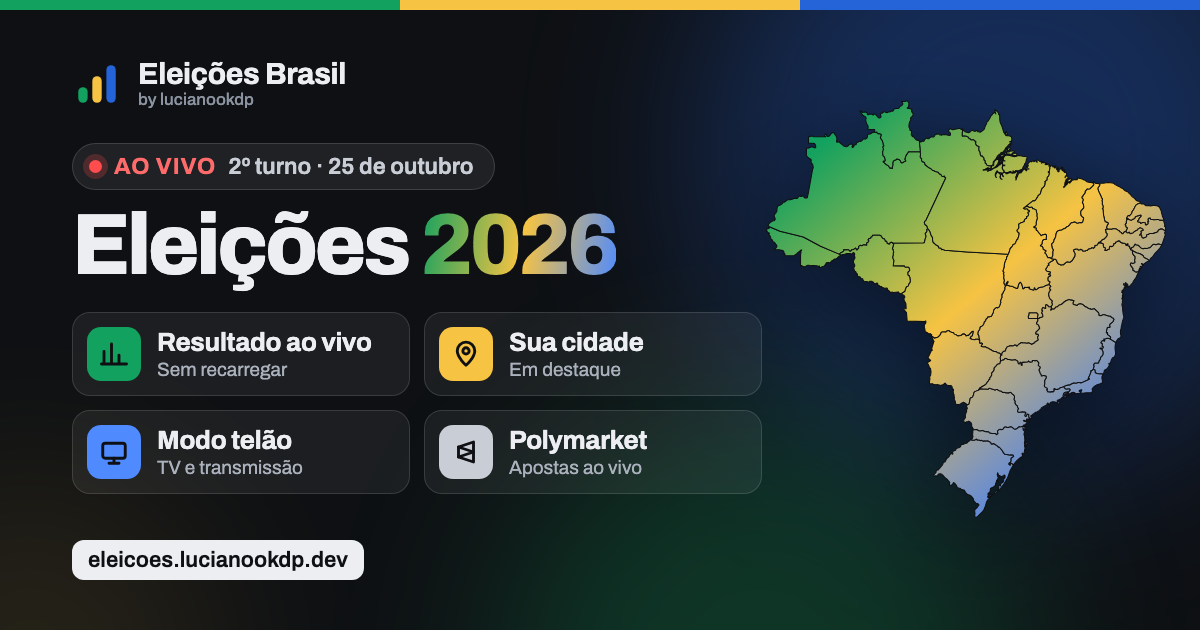
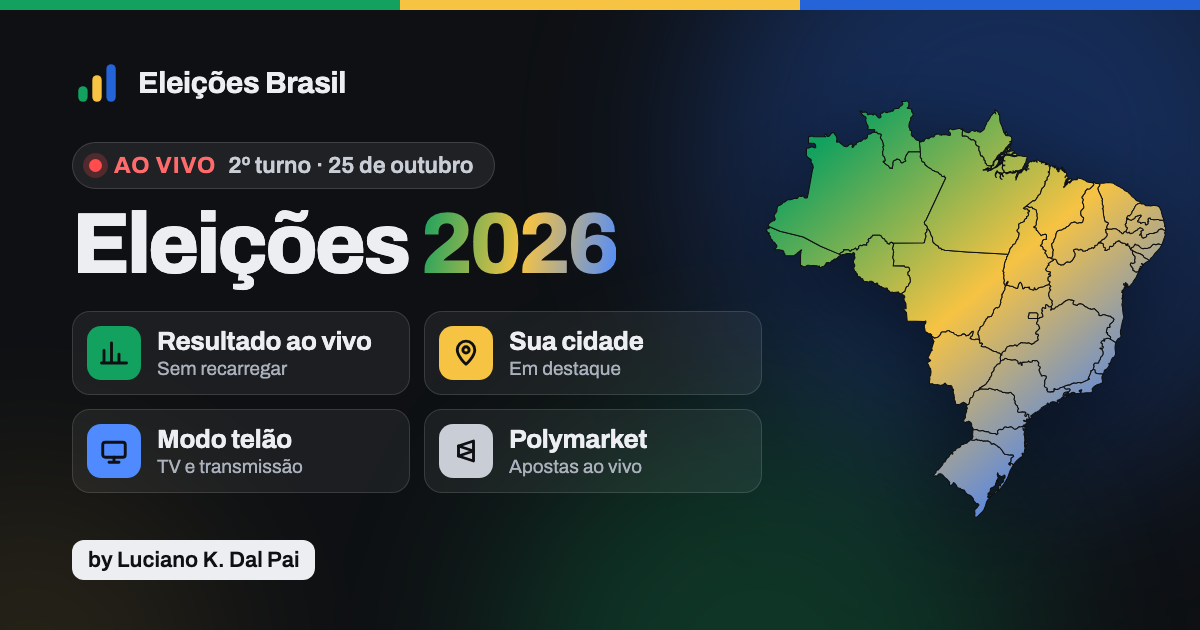
v3.4.4: telão enxuto, crédito do autor e imagem do link (#25)
* v3.4.4: a leaner TV mode; the link preview signed by Luciano K. Dal Pai

The TV mode keeps only what someone watching the count asks for: who leads
where, where there is most left to count, the governor and senate races and
turnout. "Apuração por estado" (repeated "Falta apurar") and "Últimas
atualizações" (a log, noise on a TV) are gone; each option now says in one
line what it shows. The link preview drops "by lucianookdp" under the name
and shows "by Luciano K. Dal Pai" in place of the address.

* The author's credit at the end of every page, one link to his site

A "Desenvolvido por" card with the lucianookdp wordmark closes every page,
apart from the data (the page is at least a screen tall). The whole card opens
lucianookdp.dev. "Mais" ends with the same credit, and the TV mode's footer
shows the address people can type: "Feito por Luciano K. Dal Pai ·
lucianookdp.dev".

* The credit: the author's name small under the wordmark, and an invitation to see more

* TV mode: only the author's wordmark in the corner, no credit line

* The credit card: what the author does fills its middle on big screens

* The credit card's button stands out: a green "Visitar site" pill

---------

diff --git a/apps/web/components/shell.tsx b/apps/web/components/shell.tsx
@@ -104,10 +104,7 @@ export function ElectionShell({
         <Header onSearch={() => setSearchOpen(true)} />
         {/* At least one screen tall: while the data loads the page is a short skeleton, and a footer
             in view would jump away when the content arrives (the biggest layout shift there was). */}
-        <main
-          id="conteudo"
-          className="mx-auto min-h-dvh w-full max-w-[1320px] px-4 pb-28 pt-5 sm:px-6 xl:pb-12"
-        >
+        <main id="conteudo" className="mx-auto min-h-dvh w-full max-w-[1320px] px-4 pb-6 pt-5 sm:px-6">
           <GlobalFreshness />
           {children}
         </main>
@@ -333,9 +330,29 @@ function MoreContent({
             ))}
             {/* Sharing the site closes the last group. */}
             {gi === groups.length - 1 && (
-              <li>
-                <ShareSiteItem />
-              </li>
+              <>
+                <li>
+                  <ShareSiteItem />
+                </li>
+                <li>
+                  <a href={AUTHOR} target="_blank" rel="noopener" className={row}>
+                    <span className="flex size-9 shrink-0 items-center justify-center rounded-lg bg-surface-2">
+                      <AuthorMark />
+                    </span>
+                    <span className="min-w-0 flex-1">
+                      <span className="block truncate text-[15px] font-medium leading-tight">
+                        Desenvolvido por <AuthorLogo className="text-[15px] font-semibold" />
+                      </span>
+                      <span className="block truncate text-[12.5px] text-muted">
+                        Veja mais sobre o meu trabalho
+                      </span>
+                    </span>
+                    <span aria-hidden className="shrink-0 text-[15px] text-muted">
+                      ↗
+                    </span>
+                  </a>
+                </li>
+              </>
             )}
           </ul>
         </section>
@@ -413,7 +430,7 @@ function Brand({ to }: { to: string }) {
           Eleições Brasil
         </Link>
         <a
-          href="https://lucianookdp.dev"
+          href={AUTHOR}
           target="_blank"
           rel="noopener"
           className="mt-[3px] flex items-center gap-[3px] whitespace-nowrap text-[9.5px] text-muted hover:text-ink"
@@ -875,7 +892,71 @@ function Footer() {
   return <SiteFooter version={meta?.app.version} />;
 }
 
-/** Quiet footer: the source and the two help pages; the author's credit as one small line. */
+const AUTHOR = 'https://lucianookdp.dev';
+/** As on lucianookdp.dev (Serviços). */
+const SERVICES = ['Landing pages', 'Sites institucionais', 'Sistemas web', 'Soluções sob medida'];
+
+/**
+ * The studio credit, as agencies sign the sites they make: "Desenvolvido por" and the author's
+ * wordmark, the whole card one link to his site. At the very end of every page (the page is at
+ * least a screen tall), apart from the data, so it never gets in the way of the results.
+ */
+function AuthorCard() {
+  return (
+    <a
+      href={AUTHOR}
+      target="_blank"
+      rel="noopener"
+      aria-label="Desenvolvido por lucianookdp, Luciano K. Dal Pai: veja mais sobre o meu trabalho (abre lucianookdp.dev)"
+      className="group flex items-center gap-4 rounded-2xl border border-line bg-surface px-5 py-4 transition-colors hover:border-line-strong sm:px-6 sm:py-5"
+    >
+      <span className="min-w-0 flex-1 lg:flex-none">
+        <span className="block text-[11px] font-medium uppercase tracking-[0.14em] text-muted">
+          Desenvolvido por
+        </span>
+        <AuthorLogo className="mt-1.5 text-[28px] font-semibold text-ink sm:text-[32px]" />
+        <span className="mt-0.5 block text-[11.5px] text-muted">Luciano K. Dal Pai</span>
+        <span className="mt-2 block text-[13.5px] font-medium text-ink-2 transition-colors group-hover:text-ink">
+          Veja mais sobre o meu trabalho
+        </span>
+      </span>
+      {/* Big screens: what he does fills the middle (a phone keeps the card short). */}
+      <span className="mx-4 hidden min-w-0 flex-1 self-stretch border-l border-line pl-8 lg:flex lg:flex-col lg:justify-center">
+        <span className="text-[11px] font-medium uppercase tracking-[0.14em] text-muted">O que eu faço</span>
+        <span className="mt-2.5 flex flex-wrap gap-2">
+          {SERVICES.map((s) => (
+            <span
+              key={s}
+              className="rounded-full border border-line bg-surface-2/50 px-3 py-1 text-[13px] text-ink-2"
+            >
+              {s}
+            </span>
+          ))}
+        </span>
+      </span>
+      {/* The one thing to press, in the site's green: a round arrow on phones, a pill on computers. */}
+      <span className="flex h-11 min-w-11 shrink-0 items-center justify-center gap-2 rounded-full bg-live text-[14.5px] font-semibold text-ground shadow-md shadow-black/20 transition group-hover:brightness-110 md:px-5">
+        <span className="hidden md:inline">Visitar site</span>
+        <svg
+          aria-hidden
+          viewBox="0 0 24 24"
+          width={18}
+          height={18}
+          fill="none"
+          stroke="currentColor"
+          strokeWidth={2.2}
+          strokeLinecap="round"
+          strokeLinejoin="round"
+          className="transition-transform group-hover:-translate-y-0.5 group-hover:translate-x-0.5"
+        >
+          <path d="M7 17 17 7M8 7h9v9" />
+        </svg>
+      </span>
+    </a>
+  );
+}
+
+/** Quiet footer: who made the site (AuthorCard), then the source and the help page. */
 function SiteFooter({ version }: { version?: string }) {
   const links = (
     <>
@@ -885,8 +966,11 @@ function SiteFooter({ version }: { version?: string }) {
     </>
   );
   return (
-    <footer className="mt-6 border-t border-line pb-24 xl:pb-0">
-      <div className="mx-auto flex max-w-[1320px] flex-col gap-3 px-4 py-4 sm:px-6 md:flex-row md:items-center md:justify-between md:gap-4 md:py-6">
+    <footer className="mt-6 pb-24 xl:pb-0">
+      <div className="mx-auto max-w-[1320px] px-4 sm:px-6">
+        <AuthorCard />
+      </div>
+      <div className="mx-auto mt-6 flex max-w-[1320px] flex-col gap-3 border-t border-line px-4 py-4 sm:px-6 md:flex-row md:items-center md:justify-between md:gap-4 md:py-6">
         <div className="max-w-2xl text-[13px] text-muted">
           {/* Phones: the name at the left, the version at the right, on one line. */}
           <p className="flex items-center justify-between gap-2 font-medium text-ink-2 md:justify-start">
@@ -907,23 +991,6 @@ function SiteFooter({ version }: { version?: string }) {
             Eleitoral. Horários de Brasília. {links}
           </p>
         </div>
-        {/* The author's credit: a button that says what it opens (the author's other projects), on
-            every screen. On phones it takes the whole line, the name at one end and the action at the other. */}
-        <a
-          href="https://lucianookdp.dev"
-          target="_blank"
-          rel="noopener"
-          className="group flex shrink-0 items-center justify-between gap-2 rounded-full border border-line bg-surface py-1.5 pl-3.5 pr-1.5 text-[12px] text-muted transition-colors hover:border-line-strong hover:text-ink md:justify-start md:gap-2.5 md:pl-4 md:text-[13px]"
-        >
-          <span className="flex min-w-0 items-center gap-2 md:gap-2.5">
-            <span className="min-[360px]:hidden">Por</span>
-            <span className="hidden min-[360px]:inline">Desenvolvido por</span>
-            <AuthorLogo className="text-[13.5px] font-medium text-ink md:text-[14.5px]" />
-          </span>
-          <span className="inline-flex shrink-0 items-center gap-1 rounded-full bg-surface-2 px-2.5 py-1 text-[12px] font-medium text-ink-2 transition-colors group-hover:bg-ink group-hover:text-ground md:px-3 md:text-[12.5px]">
-            Ver projetos <span aria-hidden>↗</span>
-          </span>
-        </a>
       </div>
     </footer>
   );
@@ -933,7 +1000,19 @@ function SiteFooter({ version }: { version?: string }) {
  * The author's wordmark, as on lucianookdp.dev: "lucian", an infinity sign for "oo", "kdp". Toned
  * down here: the text takes the surrounding grey and the infinity a softened site green.
  */
-function AuthorLogo({ className }: { className: string }) {
+/** The infinity of the author's wordmark, alone (an icon). */
+function AuthorMark() {
+  return (
+    <svg aria-hidden viewBox="4 4 92 42" width={20} height={10}>
+      <path d={INFINITY} fill="none" stroke="var(--live)" strokeWidth={11} strokeLinecap="round" />
+    </svg>
+  );
+}
+
+const INFINITY =
+  'M 25 10 C 10 10 10 40 25 40 C 35 40 40 30 50 25 C 60 20 65 10 75 10 C 90 10 90 40 75 40 C 65 40 60 30 50 25 C 40 20 35 10 25 10 Z';
+
+export function AuthorLogo({ className }: { className: string }) {
   return (
     <span
       className={`inline-flex items-center tracking-tight ${className}`}
@@ -943,7 +1022,7 @@ function AuthorLogo({ className }: { className: string }) {
       <span aria-hidden>lucian</span>
       <svg aria-hidden viewBox="4 4 92 42" className="mx-[-0.015em] h-[0.62em] w-auto translate-y-[0.02em]">
         <path
-          d="M 25 10 C 10 10 10 40 25 40 C 35 40 40 30 50 25 C 60 20 65 10 75 10 C 90 10 90 40 75 40 C 65 40 60 30 50 25 C 40 20 35 10 25 10 Z"
+          d={INFINITY}
           fill="none"
           stroke="var(--live)"
           strokeOpacity={0.7}

diff --git a/apps/web/components/tv-scenes.tsx b/apps/web/components/tv-scenes.tsx
@@ -4,8 +4,7 @@ import { hasValidVotes, type OverviewDTO, type ResultDTO, type StateRowDTO } fro
 import { type ReactNode, useEffect, useRef, useState } from 'react';
 import { displayName, fmtCompact, fmtPct } from '@/lib/format';
 import { usePolymarket } from '@/lib/polymarket';
-import { useEvents, useOfficeStates } from '@/lib/queries';
-import { ActivityFeed } from './activity';
+import { useOfficeStates } from '@/lib/queries';
 import { BrazilMap } from './brazil-map';
 import { OddsSplit, PriceChart } from './polymarket-chart';
 import { StatusPill } from './results';
@@ -37,18 +36,23 @@ const pagesOf = <T,>(list: T[], size: number) =>
 
 /**
  * Every scene the reader can pick, in this order, and the rounds it belongs to (the 1st round has
- * senators; in the runoff "Governadores" are the states with a governor runoff). Polymarket is not
- * the count: off unless picked.
+ * senators; in the runoff "Governadores" are the states with a governor runoff). Only what someone
+ * watching the count asks: who leads where, where it can still change, their state's races, and
+ * how many voted. Polymarket is not the count: off unless picked.
  */
 export const CATALOG = [
-  { id: 'placar', title: 'Estados', rounds: [1, 2] },
-  { id: 'apuracao', title: 'Apuração por estado', rounds: [1, 2] },
-  { id: 'falta', title: 'Falta apurar', rounds: [1, 2] },
-  { id: 'governadores', title: 'Governadores', rounds: [1, 2] },
-  { id: 'senadores', title: 'Senadores', rounds: [1] },
-  { id: 'comparecimento', title: 'Comparecimento', rounds: [1, 2] },
-  { id: 'atualizacoes', title: 'Últimas atualizações', rounds: [1, 2] },
-  { id: 'polymarket', title: 'Polymarket', rounds: [1, 2], hint: 'apostas, não é resultado oficial' },
+  { id: 'placar', title: 'Estados', rounds: [1, 2], hint: 'Quantos estados cada um lidera' },
+  { id: 'falta', title: 'Falta apurar', rounds: [1, 2], hint: 'Onde ainda há mais votos para contar' },
+  { id: 'governadores', title: 'Governadores', rounds: [1, 2], hint: 'Quem lidera em cada estado' },
+  { id: 'senadores', title: 'Senadores', rounds: [1], hint: 'Quem lidera em cada estado' },
+  { id: 'comparecimento', title: 'Comparecimento', rounds: [1, 2], hint: 'Abstenção, brancos e nulos' },
+  {
+    id: 'polymarket',
+    title: 'Polymarket',
+    rounds: [1, 2],
+    hint: 'Apostas, não é resultado oficial',
+    warn: true,
+  },
 ] as const;
 export type SceneId = (typeof CATALOG)[number]['id'];
 const PICK_KEY = 'eleicoes:telao-cenas';
@@ -120,7 +124,6 @@ export function TvScenes({
   const senator = data.round.offices.find((o) => o.slug === 'senador');
   const governors = useOfficeStates(round.slug, governor?.slug).data;
   const senators = useOfficeStates(round.slug, senator?.slug).data;
-  const events = useEvents(round.slug, 12).data;
   const [index, setIndex] = useState(0);
   const [paused, setPaused] = useState(false);
 
@@ -141,8 +144,6 @@ export function TvScenes({
   };
   // The pages of each scene; none: nothing to show right now (no one left to count, no senate race).
   const bodies: Record<SceneId, ReactNode[]> = {
-    // The most voted only: how far the count went in each state has its own scene.
-    apuracao: states.some((s) => s.progress) ? [<CountByState key="apuracao" states={states} />] : [],
     placar: states.some((s) => s.leader) ? [<Scoreboard key="placar" states={states} />] : [],
     falta: left.length > 0 ? [<Remaining key="falta" rows={left} />] : [],
     governadores: office(round.round === 2 ? 'Governadores no 2º turno' : 'Governadores', governors?.results),
@@ -150,15 +151,6 @@ export function TvScenes({
     comparecimento:
       data.progress?.turnoutPct != null && data.headline ? [<Turnout key="comp" data={data} />] : [],
     polymarket: [],
-    atualizacoes:
-      events && events.length > 0
-        ? [
-            <div key="atualizacoes">
-              <p className={kicker}>Últimas atualizações</p>
-              <ActivityFeed events={events} max={compact ? 6 : 10} />
-            </div>,
-          ]
-        : [],
   };
   // Only asked from Polymarket when picked (it is the reader's browser that asks, never our API).
   bodies.polymarket = chosen.includes('polymarket') ? [<PolymarketScene key="polymarket" />] : [];
@@ -505,31 +497,6 @@ function PolymarketScene() {
           Últimos 7 dias · US$ {fmtCompact(data.volume)} apostados · polymarket.com
         </p>
       )}
-    </div>
-  );
-}
-
-/** How far the count went in each state: every state, its share of ballot boxes counted. */
-function CountByState({ states }: { states: StateRowDTO[] }) {
-  return (
-    <div>
-      <p className={kicker}>Apuração por estado · urnas apuradas</p>
-      <ul className="mt-2 grid grid-cols-3 gap-x-3 gap-y-[clamp(4px,1cqi,8px)] @md:grid-cols-4">
-        {states.map((s) => {
-          const pct = s.progress?.countedPct ?? null;
-          return (
-            <li key={s.uf} className="min-w-0">
-              <span className="flex items-baseline justify-between gap-1">
-                <span className="text-[clamp(11px,2.4cqi,16px)] font-semibold text-ink-2">{s.uf}</span>
-                <span className="numeral text-[clamp(11px,2.4cqi,16px)] font-semibold">{fmtPct(pct, 0)}</span>
-              </span>
-              <span className="mt-0.5 block h-[clamp(4px,0.8cqi,7px)] overflow-hidden rounded-full bg-surface-2">
-                <span className="bar block h-full rounded-full bg-live" style={{ width: `${pct ?? 0}%` }} />
-              </span>
-            </li>
-          );
-        })}
-      </ul>
     </div>
   );
 }

diff --git a/apps/web/components/tv-view.tsx b/apps/web/components/tv-view.tsx
@@ -9,7 +9,7 @@ import { BrazilMap } from './brazil-map';
 import { IconPin, Logo } from './icons';
 import { decision } from './overview';
 import { FacePhoto } from './results';
-import { useRound } from './shell';
+import { AuthorLogo, useRound } from './shell';
 import { catalogFor, SCENE_SECONDS, TvScenes, useSceneChoice } from './tv-scenes';
 import { EmptyState, ErrorNotice, Skeleton, useTseStall } from './ui';
 
@@ -178,7 +178,7 @@ export function TvView() {
           Escolha o que passa ao lado do resultado para presidente, que fica sempre na tela. Cada item aparece
           por {SCENE_SECONDS} segundos, um depois do outro.
         </p>
-        <ul className="mt-3 grid grid-cols-1 gap-x-4 gap-y-1 min-[420px]:grid-cols-2 lg:grid-cols-4">
+        <ul className="mt-3 grid grid-cols-1 gap-x-4 gap-y-2 min-[420px]:grid-cols-2 lg:grid-cols-3">
           {catalogFor(round.round).map((c) => (
             <li key={c.id}>
               <label className="flex min-h-10 cursor-pointer items-center gap-2.5 text-[14.5px]">
@@ -193,7 +193,11 @@ export function TvView() {
                   {absent.has(c.id) && (
                     <span className="ml-1 text-[12px] text-muted">(não há nesta etapa)</span>
                   )}
-                  {'hint' in c && <span className="block text-[12px] leading-tight text-warn">{c.hint}</span>}
+                  <span
+                    className={`block text-[12px] leading-tight ${'warn' in c ? 'text-warn' : 'text-muted'}`}
+                  >
+                    {c.id === 'governadores' && round.round === 2 ? 'Os estados com 2º turno' : c.hint}
+                  </span>
                 </span>
               </label>
             </li>
@@ -437,10 +441,11 @@ export function TvView() {
           <footer
             className={`flex-wrap justify-between gap-2 text-[clamp(12px,1vmax,18px)] text-muted ${panel ? 'hidden' : 'flex'}`}
           >
-            <span>Dados oficiais do TSE</span>
             <span>
-              <span className="font-medium text-ink-2">eleicoes.lucianookdp.dev</span> · by lucianookdp
+              Dados oficiais do TSE · <span className="font-medium text-ink-2">eleicoes.lucianookdp.dev</span>
             </span>
+            {/* The author's wordmark alone, quiet in the corner. */}
+            <AuthorLogo className="font-medium text-ink-2" />
           </footer>
         </div>
       </div>

diff --git a/apps/web/e2e/flows.e2e.ts b/apps/web/e2e/flows.e2e.ts
@@ -495,9 +495,9 @@ test('"/" opens the round a link without "t" opens; TV mode on the title line, c
 
   const title = page.getByRole('heading', { level: 1 });
   const tv = page.getByRole('link', { name: 'Assistir no modo telão' });
-  const projects = page.getByRole('contentinfo').getByText('Ver projetos');
+  const projects = page.getByRole('contentinfo').getByRole('link', { name: /^Desenvolvido por/ });
   if (isMobile) {
-    // Phones reach the panel from "Mais"; the credit is the same button as on a computer.
+    // Phones reach the panel from "Mais"; the credit is the same card as on a computer.
     await expect(tv).toBeHidden();
     await expect(projects).toBeVisible();
     return;

diff --git a/apps/web/app/layout.tsx b/apps/web/app/layout.tsx
@@ -49,7 +49,7 @@ export const metadata: Metadata = {
     description: 'Dados oficiais do TSE, atualizados a cada parcial. 2º turno em 25 de outubro.',
     url: `${base}/`,
     images: [
-      { url: `${base}/og.png?v=6`, width: 1200, height: 630, alt: 'Eleições 2026 · Apuração em tempo real' },
+      { url: `${base}/og.png?v=7`, width: 1200, height: 630, alt: 'Eleições 2026 · Apuração em tempo real' },
     ],
   },
   twitter: { card: 'summary_large_image' },

diff --git a/packages/config/src/index.ts b/packages/config/src/index.ts
@@ -1,7 +1,7 @@
 import { z } from 'zod';
 
 /** Application version shown in the UI and in /api/health. Keep in sync with the root package.json. */
-export const APP_VERSION = '3.4.3';
+export const APP_VERSION = '3.4.4';
 export const APP_NAME = 'Eleições Brasil';
 
 export const RUN_MODES = ['PRODUCTION', 'SIMULATION', 'DEVELOPMENT', 'REPLAY'] as const;
